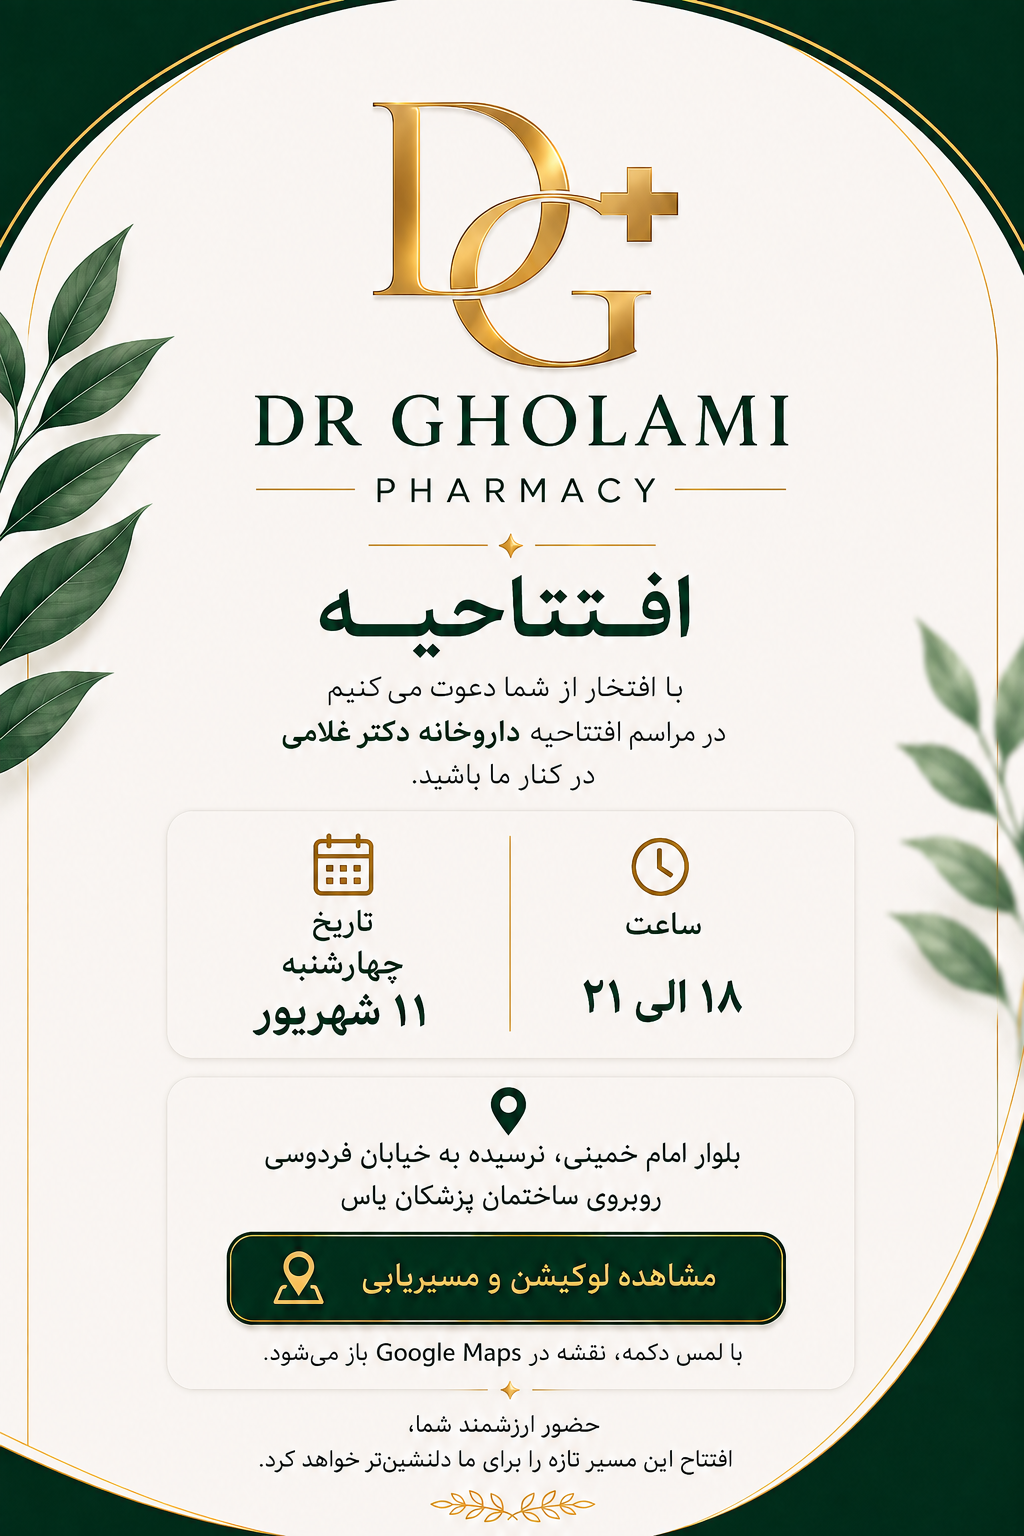
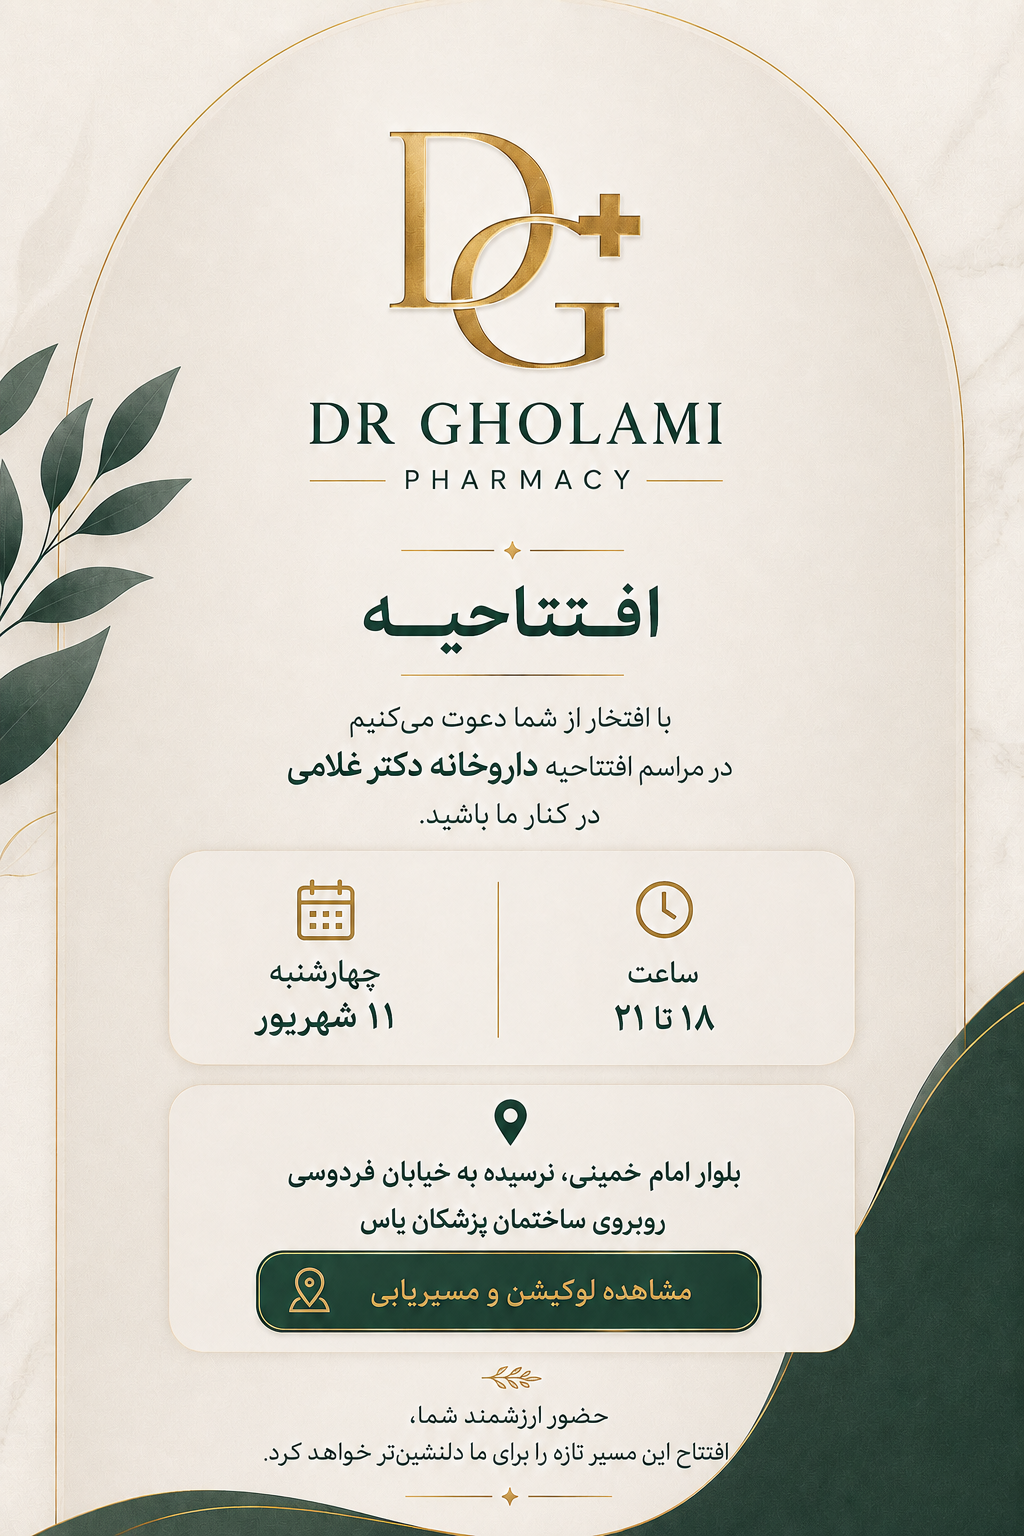
update invitation layout and image

diff --git a/index.html b/index.html
@@ -1,8 +1,10 @@
 <!DOCTYPE html>
 <html lang="fa" dir="rtl">
+
 <head>
     <meta charset="UTF-8" />
     <meta name="viewport" content="width=device-width, initial-scale=1.0" />
+
     <title>افتتاحیه داروخانه دکتر غلامی</title>
 
     <style>
@@ -17,37 +19,48 @@
             display: flex;
             justify-content: center;
             align-items: center;
-            min-height: 100vh;
+
+            width: 100vw;
+            height: 100vh;
+
+            overflow: hidden;
+
             font-family: Tahoma, sans-serif;
         }
 
         .card {
+            height: 100vh;
             max-width: 520px;
-            width: 100%;
+            width: auto;
+
             background: #ffffff;
             box-shadow: 0 16px 48px rgba(0, 0, 0, 0.10);
-            text-align: center;
         }
 
         .image-wrapper {
             position: relative;
-            width: 100%;
+            height: 100%;
         }
 
         .image-wrapper img {
-            width: 100%;
-            height: auto;
             display: block;
+
+            width: auto;
+            height: 100vh;
+
+            max-width: 100vw;
+
+            object-fit: contain;
         }
 
         .location-link {
             position: absolute;
 
             /* جای دکمه نسبت به تصویر */
-            left: 22%;
-            top: 79%;
+            left: 25%;
+            top: 81%;
 
-            width: 55%;
+            width: 50%;
             height: 6%;
 
             display: block;
@@ -57,6 +70,13 @@
         @media (max-width: 480px) {
             .card {
                 width: 100%;
+                height: 100vh;
+            }
+
+            .image-wrapper img {
+                width: 100%;
+                height: 100vh;
+                object-fit: contain;
             }
         }
     </style>
@@ -68,7 +88,7 @@
 
         <div class="image-wrapper">
 
-            <img 
+            <img
                 src="1.png"
                 alt="افتتاحیه داروخانه دکتر غلامی"
             />
@@ -78,12 +98,13 @@
                 href="https://www.google.com/maps/search/?api=1&query=37.255278%2C49.946225"
                 target="_blank"
                 rel="noopener noreferrer"
-                aria-label="مشاهده لوکیشن و مسیریابی"
-            ></a>
+                aria-label="مشاهده لوکیشن و مسیریابی">
+            </a>
 
         </div>
 
     </div>
 
 </body>
+
 </html>
